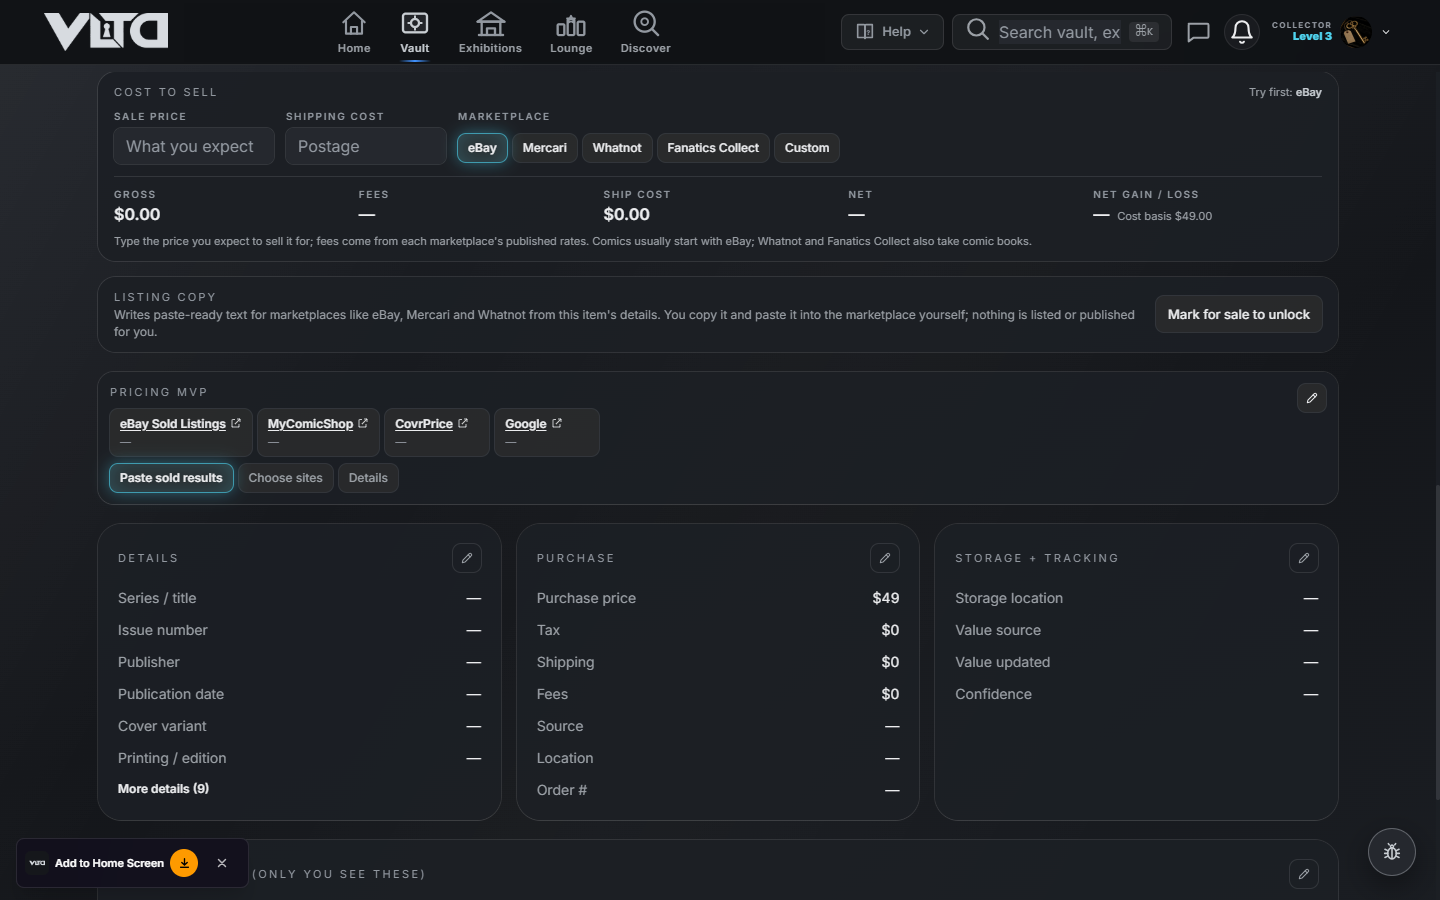
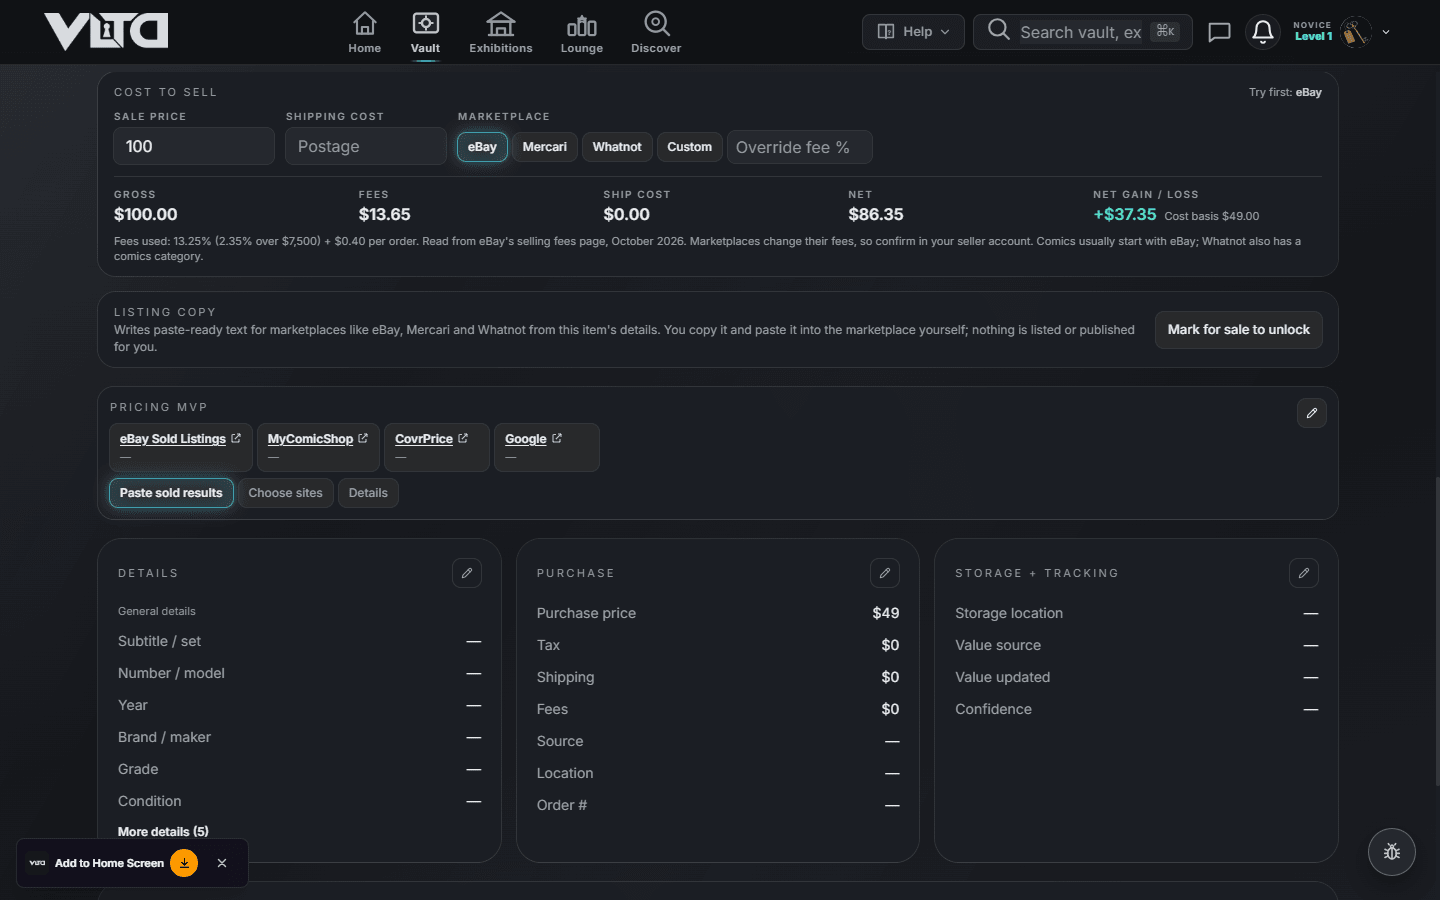
Docs: final closeout screenshots (live, 0ef6c93), compressed, with index; record of the live closeout check

diff --git a/docs/ui-verification-2026-10-17/screenshots/INDEX.md b/docs/ui-verification-2026-10-17/screenshots/INDEX.md
@@ -2,7 +2,7 @@
 
 **Folder (exact path):** `C:\Users\EK\VLTD\docs\ui-verification-2026-10-17\screenshots\`
 - `before\` = the live site before the fixes (old code).
-- `after\` = the live site after the fixes, commit `f9a60dc`, except `after\5-cost-to-sell.png`, which was re-taken after the closeout corrections (see its row).
+- `after\` = the live site after the fixes, commit `f9a60dc`, except `after\5-cost-to-sell.png`, `after\cost-to-sell-whatnot-unverified.png` and `after\exhibition-share-prompt-wording.png`, which were taken on the live site after the closeout corrections (commit `0ef6c93`).
 
 All screens use one synthetic test account (QA data, art from `public/collectibles`), 1440 x 900 desktop unless marked "phone" (a browser window at 390 px with phone emulation; **not a physical phone**). The test account was deleted afterwards.
 
@@ -16,6 +16,7 @@ All screens use one synthetic test account (QA data, art from `public/collectibl
 | 3 (extra states) | 9:16 format; drawing failure with Try again | n/a | `after\export-9x16.png`, `after\export-error.png` |
 | 4 (title + classification) | Title editor open, Universe > Category > Subcategory | `before\4-item-edit.png` | `after\4-item-edit.png` |
 | 5 (Cost to Sell + Listing copy) | Selling tools for a comic | `before\5-cost-to-sell.png` | `after\5-cost-to-sell.png` (re-taken after the closeout: no Fanatics Collect for a comic, fee status line, Override fee %) |
+| 5 (closeout extras) | Whatnot shown as "Unverified in part" with the reason and the Override fee % box; exhibition sharing question with the "Anyone with the link can view this exhibition" wording | n/a | `after\cost-to-sell-whatnot-unverified.png`, `after\exhibition-share-prompt-wording.png` |
 | 6 and 8 (Home) | Top of Home | `before\6-home-top.png` | `after\6-home-top.png` |
 | 7 and 9 (exhibitions on Home) | Exhibition block | `before\7-home-exhibitions.png` | `after\7-home-exhibitions.png` |
 | 7 and 9 (extra states) | One exhibition; no exhibitions | n/a | `after\home-carousel-one.png`, `after\home-carousel-zero.png` |

diff --git a/HANDOFF.md b/HANDOFF.md
@@ -7,6 +7,8 @@
 5. **Native photo sharing is SIMULATED, not device-verified** (the share sheet was a test stand-in). A real phone share sheet and real touch dragging stay UNVERIFIED.
 6. Exhibition "Turn on public sharing?" now reads "Anyone with the link can view this exhibition. It is not added to public discovery, and a hidden collector name stays hidden." Checked in code: Guest View is not PUBLIC (the only value the Discover page lists), and the alias (hidden collector) setting is not touched by it.
 
+Checked on the live site at `0ef6c93` with a short run (test account since removed; 0 test rows left): comic offers eBay, Mercari, Whatnot, Custom; eBay and Mercari show "Read from ..."; Whatnot shows "Unverified in part" with the reason; Override fee % at 5% gives $5.00 on $100 and says it is your own rate; the exhibition question has the new wording. The short script reported 4 failures that were its own text clean-up deleting the letter "s" from the page text it compared; the page text itself was correct (screenshots in the folder above). Not re-run.
+
 Tutorials stay paused until EK has reviewed the screenshots.
 
 ---
